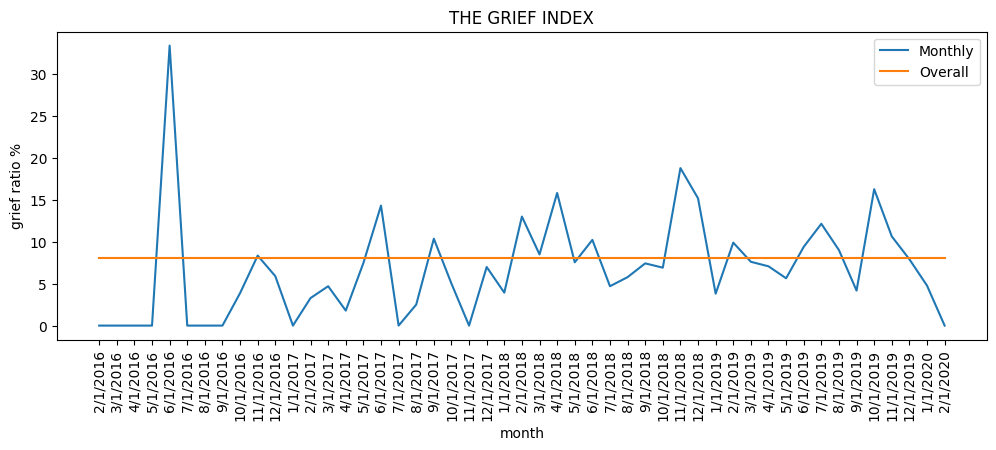
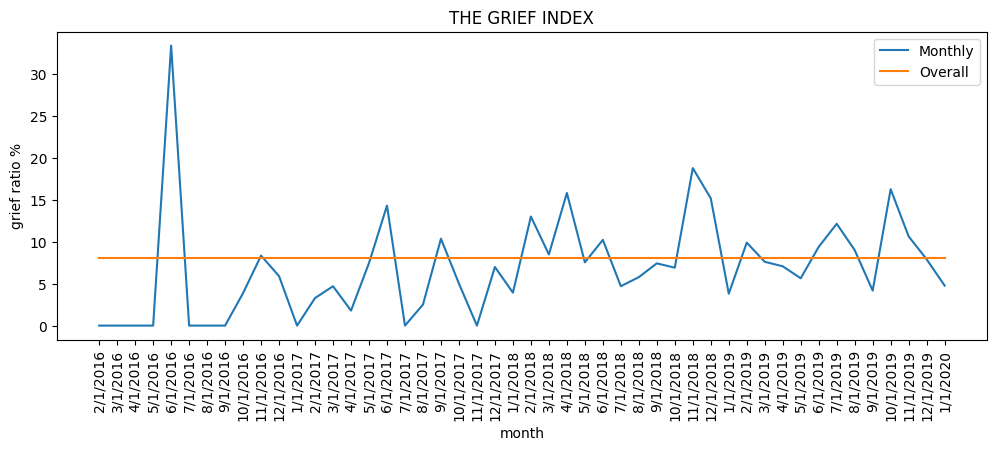
GI to skip current month

diff --git a/gen_grief_data.py b/gen_grief_data.py
@@ -88,7 +88,7 @@ def grief_series(df):
     #current year
     for y in range(datetime.datetime.now().year,datetime.datetime.now().year+1):
         for m in range(1,13):
-            if m <= datetime.datetime.now().month:
+            if m < datetime.datetime.now().month:
                 start_d = str(m)+"/1/"+str(y)
                 end_d = str(m)+"/"+str(last_day[m])+"/"+str(y)
                 #print(start_d,"-",end_d,"-",grief_index(df,start_d,end_d))
@@ -130,4 +130,3 @@ if __name__ == "__main__":
     grief_to_file()
     grief_series(df)
     gen_viz()
-
